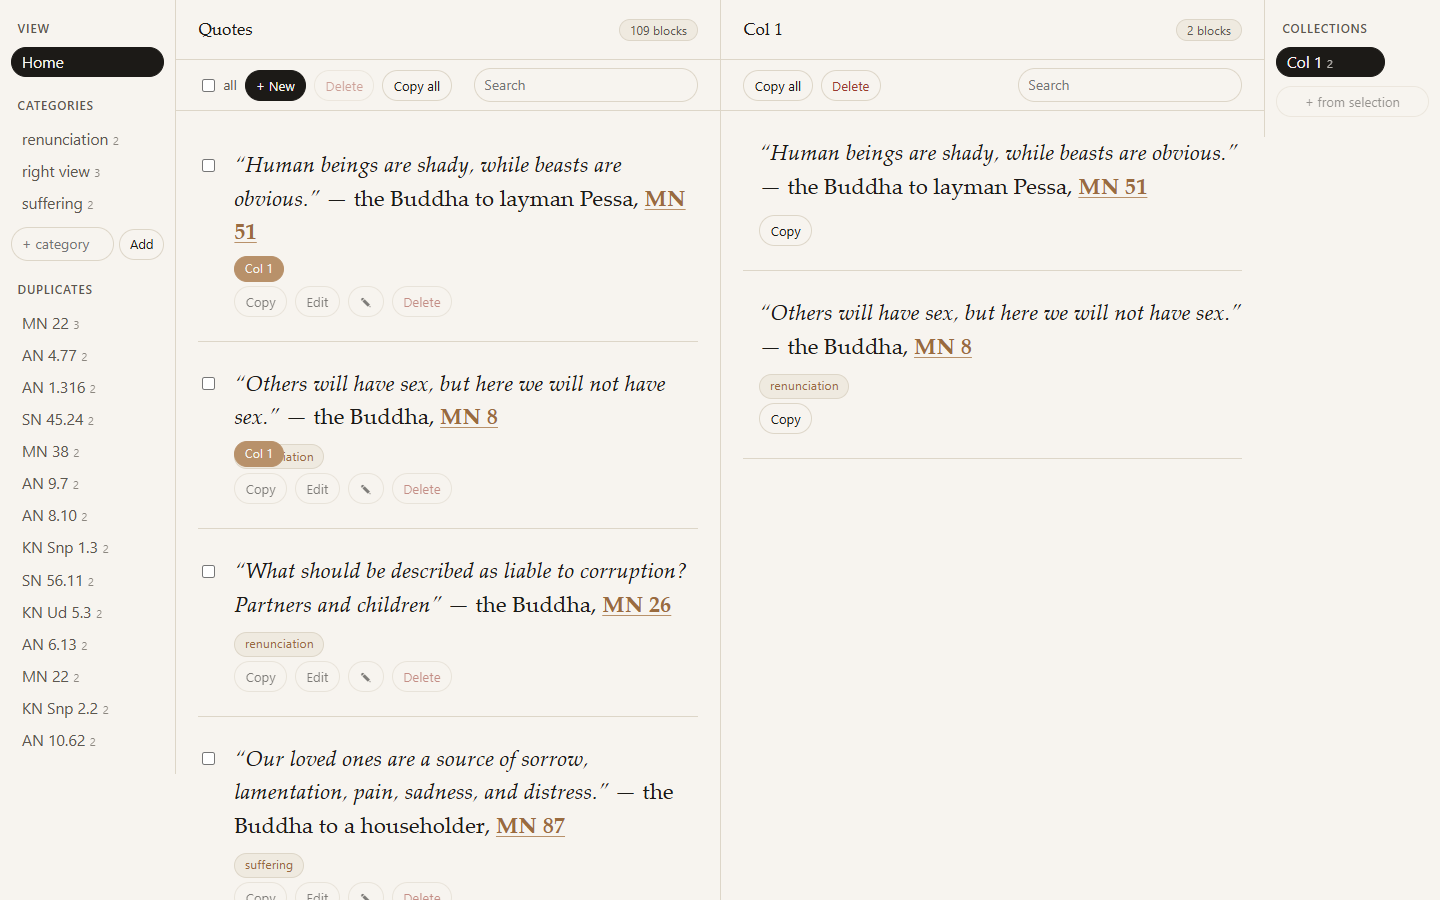
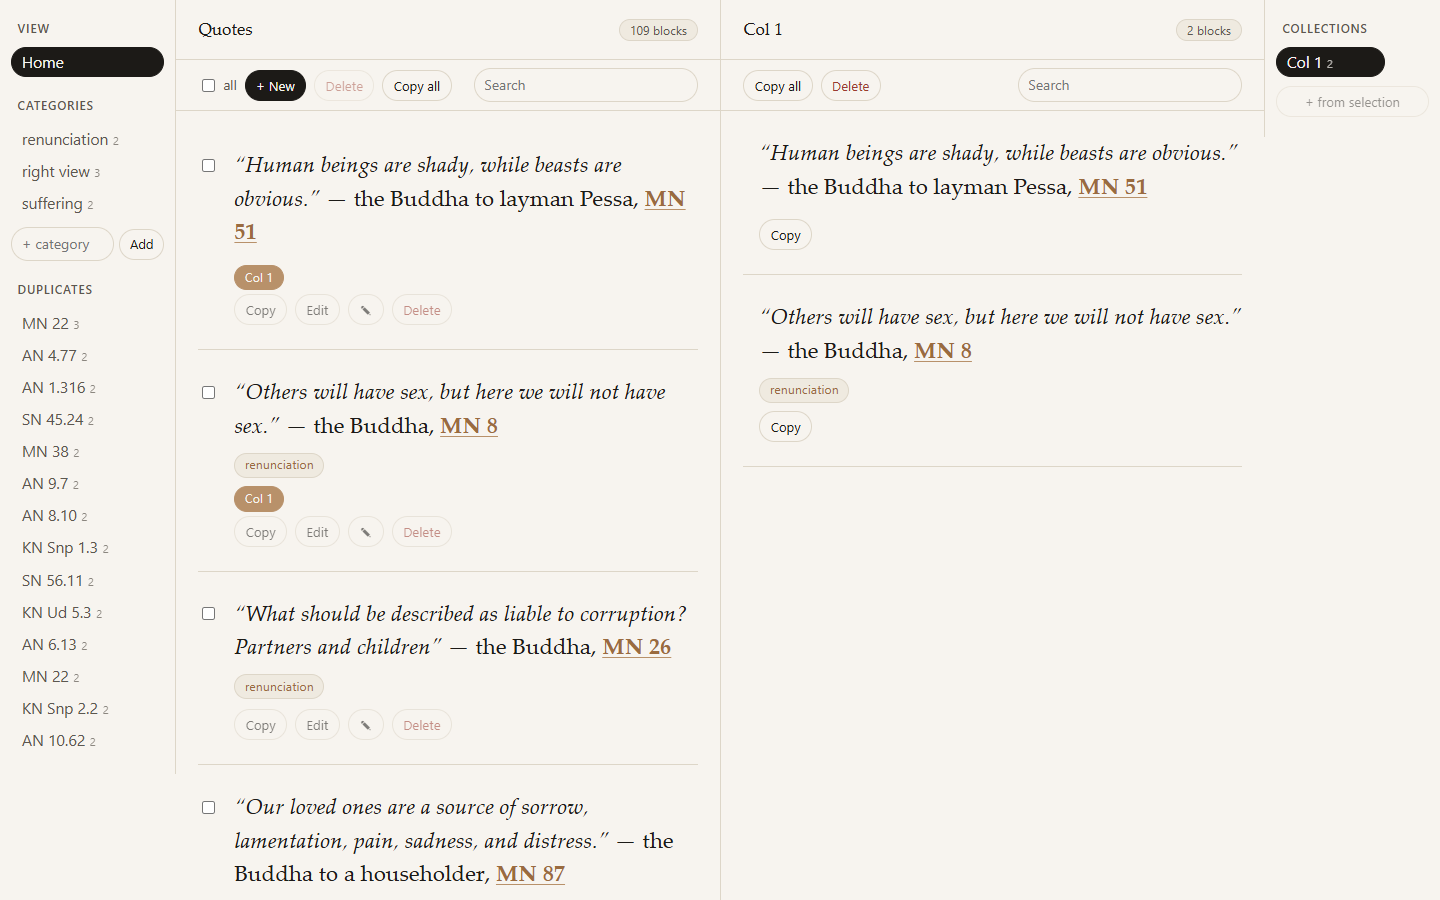
fix(ui): stop category and collection chips overlapping
Both chip rows were assigned grid-area: chips, so they landed in the same
cell. Give collections their own cols row in the .quote grid (and the narrow
media variant) so the two rows stack. Regenerate the home screenshot.

diff --git a/web/static/layout.css b/web/static/layout.css
@@ -234,8 +234,9 @@ mark {
 .insert-gap:hover::before { border-top-color: var(--accent-soft); }
 .insert-gap:hover::after { opacity: 1; }
 
-/* --- collection membership chips on root blocks --- */
-.quote__collections { grid-area: chips; margin-top: 0.1rem; }
+/* --- collection membership chips on root blocks (their own grid row, so they
+   do not overlap the category chips row) --- */
+.quote__collections { grid-area: cols; margin-top: 0.1rem; }
 
 /* Brief highlight on the quote jumped to from the Duplicates rail. */
 .quote.is-flash {

diff --git a/web/static/app.css b/web/static/app.css
@@ -50,7 +50,7 @@ body {
 .quote {
   display: grid;
   grid-template-columns: auto 1fr;
-  grid-template-areas: "check body" "check chips" "check actions";
+  grid-template-areas: "check body" "check chips" "check cols" "check actions";
   align-items: start;
   gap: 0.25rem 1rem;
   padding: clamp(1rem, 2vw, 1.5rem) 0;
@@ -177,5 +177,5 @@ body {
 .quote-form__row--actions { justify-content: flex-end; }
 
 @media (max-width: 30rem) {
-  .quote { grid-template-columns: 1fr; grid-template-areas: "check" "body" "chips" "actions"; }
+  .quote { grid-template-columns: 1fr; grid-template-areas: "check" "body" "chips" "cols" "actions"; }
 }

diff --git a/changelog.md b/changelog.md
@@ -6,6 +6,7 @@ adheres to [Semantic Versioning](https://semver.org/spec/v2.0.0.html).
 
 | Version | Date | Type | Change |
 |---------|------|------|--------|
+| [0.9.1] | 2026-07-05 | Fixed | Category chips and collection chips on a root block were assigned the same grid area (`chips`), so the two rows overlapped; collections now get their own `cols` row in the `.quote` grid (and in the narrow `@media` variant), so the chip rows stack cleanly. |
 | [0.9.0] | 2026-07-05 | Changed | The workspace fills the viewport: the `96rem` cap and centering on `.page` are gone (and the now-unused `--col` token with it), so the four-zone grid uses the full width; the rails keep their fixed columns and the responsive breakpoints are unchanged. |
 | [0.9.0] | 2026-07-05 | Added | Synced column headers: a small equalizer in `app.js` matches each column's `.zone__head` and `.zone__toolbar` to the taller of the pair (reset, measure, apply as `min-height`), so the divider lines line up across columns regardless of content or htmx swaps; re-runs on `applyFragments`, `htmx:afterSwap`, init, resize, and `document.fonts.ready`. |
 | [0.9.0] | 2026-07-05 | Changed | Unnamed collections now render as "Col {id}" instead of "Collection {id}" (`server.collectionLabel`); tests and docs updated. |
@@ -67,6 +68,7 @@ adheres to [Semantic Versioning](https://semver.org/spec/v2.0.0.html).
 | [0.1.0] | 2026-06-29 | Notes | Quotes are drawn from `sacredness-and-profanity.txt` and `stream-entry-for-lay-buddhists.txt`; `discerning-truth-from-deception.txt` is prose only and contributes no quotes. |
 | [0.1.0] | 2026-06-29 | Notes | Unattributed quotes (including all header-cited ones) are normalized to "the Buddha". |
 
+[0.9.1]: https://github.com/lavantien/quotes-manager/releases/tag/v0.9.1
 [0.9.0]: https://github.com/lavantien/quotes-manager/releases/tag/v0.9.0
 [0.8.0]: https://github.com/lavantien/quotes-manager/releases/tag/v0.8.0
 [0.7.1]: https://github.com/lavantien/quotes-manager/releases/tag/v0.7.1